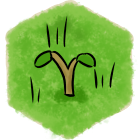
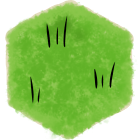
another art revision

Changed region(s): [[0.2286, 0.3429, 0.6857, 0.7429]]

diff --git a/src/main.ts b/src/main.ts
@@ -238,6 +238,47 @@ class Hex extends Phaser.GameObjects.Image {
         this.propeller.setDepth(2);
     }
 
+    setX(x: number) {
+        super.setX(x);
+        this.eEdge.setX(x);
+        this.neEdge.setX(x);
+        this.nwEdge.setX(x);
+        this.wEdge.setX(x);
+        this.swEdge.setX(x);
+        this.seEdge.setX(x);
+        this.propeller.setX(x);
+        return this;
+    }
+
+    setY(y: number) {
+        super.setY(y);
+        this.eEdge.setY(y);
+        this.neEdge.setY(y);
+        this.nwEdge.setY(y);
+        this.wEdge.setY(y);
+        this.swEdge.setY(y);
+        this.seEdge.setY(y);
+        this.propeller.setY(y);
+        return this;
+    }
+
+    embiggen() {
+        this.eEdge.setScale(1);
+        this.neEdge.setScale(1);
+        this.nwEdge.setScale(1);
+        this.wEdge.setScale(1);
+        this.swEdge.setScale(1);
+        this.seEdge.setScale(1);
+        this.eEdge.setAlpha(1);
+        this.neEdge.setAlpha(1);
+        this.nwEdge.setAlpha(1);
+        this.wEdge.setAlpha(1);
+        this.swEdge.setAlpha(1);
+        this.seEdge.setAlpha(1);
+        this.propeller.setScale(1);
+        this.setScale(1);
+    }
+
     setType(hexType: number) {
         this
         this.setTexture(['empty', 'windmill', 'grass', 'street', 'center', 'port'][hexType]);
@@ -245,11 +286,13 @@ class Hex extends Phaser.GameObjects.Image {
         if (hexType === 1) {
             this.propeller.setVisible(true);
             if (this.hasHill) {
-                this.propeller.setY(this.y - 35);
+                this.propeller.setY(this.y - 70*this.scale);
                 this.setTexture('windmill-hill');
             } else {
-                this.propeller.setY(this.y - 15);
+                this.propeller.setY(this.y - 30*this.scale);
             }
+        } else {
+            this.propeller.setVisible(false);
         }
 
         if (hexType === 5) {
@@ -269,7 +312,7 @@ class Hex extends Phaser.GameObjects.Image {
 
     update(time: number, delta: number) {
         if (this.propeller.visible) {
-            let speed = (this.hasHill && this.counted) ? 2 : this.counted ? 1 : 0;
+            let speed = (this.hasHill && this.counted) ? 2 : this.counted ? 1 : 0.1;
             this.propeller.setAngle(this.propeller.angle + speed*0.1*delta)
         }
     }
@@ -724,6 +767,10 @@ class HexGrid extends Phaser.GameObjects.Group {
             if (p.hexes && p.hexes[0].hexType === 3) {
                 p.hexes[0].setTexture('house');
             }
+
+            if (p.hexes && p.hexes[0].hexType === 5) {
+                p.hexes[0].setTexture('port-color');
+            }
         }
     }
 }
@@ -762,15 +809,17 @@ export class MainScene extends Phaser.Scene {
 
     create() {
 
+        this.add.image(640, 360, 'background');
+
         // small = 4
         // large = 5
-        // this.grid = new HexGrid(this, 5, 8);
-        this.grid = new HexGrid(this, 4, 5);
+        this.grid = new HexGrid(this, 5, 8);
+        // this.grid = new HexGrid(this, 4, 5);
 
         // small = 16
         // large = 25
-        // this.trihexDeck = this.createTrihexDeck(25, true);
-        this.trihexDeck = this.createTrihexDeck(16, false);
+        this.trihexDeck = this.createTrihexDeck(25, true);
+        // this.trihexDeck = this.createTrihexDeck(16, false);
 
         this.pickNextTrihex();
 
@@ -780,11 +829,11 @@ export class MainScene extends Phaser.Scene {
             
 
             let h = new Hex(this, -1, -1);
-            h.setX(700 + HEX_WIDTH*offsets.co);
-            h.setY(400 + HEX_HEIGHT*offsets.ro);
+            h.embiggen();
             
             this.bigPreviewTrihex.push(h);
         }
+        this.updateBigTrihex();
 
 
         this.input.on(Phaser.Input.Events.POINTER_DOWN, this.onPointerDown, this);
@@ -808,6 +857,19 @@ export class MainScene extends Phaser.Scene {
         this.nextTrihex.rotateRight();
 
         this.grid.updateTriPreview(this.input.activePointer.worldX, this.input.activePointer.worldY, this.nextTrihex);
+        this.updateBigTrihex();
+    }
+
+    updateBigTrihex() {
+        for (let i = 0; i < 3; i++) {
+            let row = shapes[this.nextTrihex.shape][i].ro;
+            let col = shapes[this.nextTrihex.shape][i].co;
+
+            this.bigPreviewTrihex[i].setX(950 + HEX_WIDTH*2*(col + 0.5*row))
+            this.bigPreviewTrihex[i].setY(325 + HEX_HEIGHT*1.5*row)
+
+            this.bigPreviewTrihex[i].setType(this.nextTrihex.hexes[i]);
+        }
     }
 
     createTrihexDeck(size: number, allShapes?: boolean): Trihex[] {
@@ -867,6 +929,7 @@ export class MainScene extends Phaser.Scene {
     onPointerDown(event) {
         if (this.grid.placeTrihex(event.worldX, event.worldY, this.nextTrihex)) {
             this.pickNextTrihex();
+            this.updateBigTrihex();
         }
     }
 

diff --git a/src/load.ts b/src/load.ts
@@ -30,6 +30,7 @@ export class LoadScene extends Phaser.Scene {
         this.load.image('street-red', 'img/street-red.png');
         this.load.image('street-bw', 'img/street-bw.png');
         this.load.image('house', 'img/house.png');
+        this.load.image('center', 'img/center.png');
 
         this.load.image('windmill', 'img/windmill.png');
         this.load.image('propeller', 'img/propeller.png');
@@ -37,10 +38,10 @@ export class LoadScene extends Phaser.Scene {
         this.load.image('windmill-hill', 'img/windmill-hill.png');
         this.load.image('windmill-bw', 'img/windmill-bw.png');
 
-        this.load.image('center', 'img/center.png');
         this.load.image('port', 'img/port.png');
+        this.load.image('port-color', 'img/port-color.png');
         this.load.image('rotate', 'img/rotate.png');
-        this.load.image('paper-texture', 'img/paper-texture.png');
+        this.load.image('background', 'img/background.png');
 
         this.load.bitmapFont('font', 'font/font.png', 'font/font.fnt');
     }
